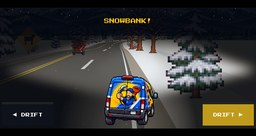
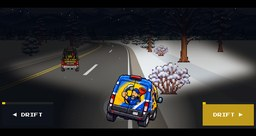
The Clog Kings get their own van
Claude-Session: https://claude.ai/code/session_01QR4rFRbYTeq9tRTzXkRUE8

diff --git a/js/drive3d.js b/js/drive3d.js
@@ -244,15 +244,13 @@ function drive3d(choice, opts) {
   const RIVAL = !!opts.rival; let drift = 0, dmeter = 0, dboost = 0, smoke = [], screech = null;
   let rz = PZ + 45 * SEG, rv = 0, roff = LANE[1], rivalWon = false, rivalImg = null, rivalBump = 0;
   let rivalLane = LANE[1], rivalT = 0, rivalSlip = 0;
-  function makeRival() {   // repaint our van in Clog Kings colors (blue->red, yellow->black) once the art has loaded
-    if (rivalImg || !(VANS.complete && VANS.naturalWidth)) return;
-    const c = document.createElement('canvas'); c.width = VCW; c.height = VCH; const k = c.getContext('2d'); k.imageSmoothingEnabled = true; k.drawImage(VANS, 0, 0, VANS.width / 6, VANS.height, 0, 0, VCW, VCH);
-    const d = k.getImageData(0, 0, VCW, VCH), p = d.data;
-    for (let i = 0; i < p.length; i += 4) { const r0 = p[i], g0 = p[i + 1], b0 = p[i + 2];
-      if (b0 > r0 + 30 && b0 > g0) { p[i] = Math.min(255, b0 + 20); p[i + 1] = g0 * 0.3; p[i + 2] = r0 * 0.3; }            // blue wrap -> red
-      else if (r0 > 150 && g0 > 130 && b0 < 110) { p[i] = 40; p[i + 1] = 40; p[i + 2] = 44; } }                                // yellow -> black
-    k.putImageData(d, 0, 0); rivalImg = c;
+  const CKS = new Image(); CKS.src = (window.DDT && DDT.root || '') + 'assets/ck_back.png'; let ckF = null, rivalBrake = false;   /* the Clog Kings' own van: 6 frames, straight / left / right, then the same braking */
+  function makeRival() {
+    if (ckF || !(CKS.complete && CKS.naturalWidth)) return;
+    ckF = [0, 1, 2, 3, 4, 5].map(i => { const c = document.createElement('canvas'); c.width = VCW; c.height = VCH; const k = c.getContext('2d'); k.imageSmoothingEnabled = true; k.imageSmoothingQuality = 'high'; k.drawImage(CKS, i * CKS.width / 6, 0, CKS.width / 6, CKS.height, 0, 0, VCW, VCH); return c; });
   }
+  const rivalFrame = () => { if (!ckF) return null; const c = segAt(rz).curve; return ckF[(c < -1.5 ? 1 : c > 1.5 ? 2 : 0) + (rivalBrake || rivalBump > 0 ? 3 : 0)]; };
+
 
   // ---------- traffic + critters ----------
   const cars = [];   // { z, off, speed, img, onc }
@@ -559,7 +557,7 @@ function drive3d(choice, opts) {
         if (rivalSlip > 0) want *= 0.6;
         roff += (rivalLane - roff) * Math.min(1, dt * 2.6);   // the swerve itself
         rivalBump = Math.max(0, rivalBump - dt); if (rivalBump > 0) want *= 0.4;
-        rv += (want - rv) * Math.min(1, dt * 0.8); rz += rv * dt;
+        rivalBrake = want < rv - TOP * 0.04; rv += (want - rv) * Math.min(1, dt * 0.8); rz += rv * dt;
         if (inv <= 0 && Math.abs(rz - (pos + PZ)) < SEG * 1.0 && Math.abs(px - roff) < 0.16 + 0.17) {   // trading paint
           if (DRIFT) { inv = 1.0; sfx('horn_angry', { vol: 0.6 }); say('SQUEEZED PAST THE CLOG KINGS!', 1.0); }   /* drifting: no bump, no lost speed, just an angry horn */
           else { inv = 1.0; shake = 0.4; rivalBump = 1.2; speed *= 0.6; px += px < roff ? -0.25 : 0.25; sfx('horn_angry'); say('TRADING PAINT WITH THE CLOG KINGS!', 1.2); } }
@@ -687,7 +685,7 @@ function drive3d(choice, opts) {
         for (const sp of sg.sprites) S(sp.img, sp.scale * 2.6, p.sx, p.sy, sp.off > 0 ? sp.off + (sg.rt || 1) - 1 : sp.off + (sg.lt || -1) + 1, p.sw, sg.clip, 0, 1);   /* unrounded, so trees and signs slide smoothly instead of twitching a pixel at a time */
         if (KITS.length && KIT_IMG.complete && KIT_IMG.naturalWidth) for (const k of KITS) if (!k.got && segAt(k.z) === sg) S(KIT_IMG, 0.09, p.sx, p.sy, k.off, p.sw, sg.clip, 0, 1);   /* a toolbox lying in the lane */
         if (RIVAL && rz > pos && segAt(rz) === sg) { makeRival(); const q = sg.s2, f = Math.max(0, Math.min(1, ((((rz % LEN) + LEN) % LEN) - sg.p1.z) / SEG));   /* glides like the other cars instead of hopping strip to strip */
-          if (rivalImg && q && q.sw > 0) S(rivalImg, 0.62, p.sx + (q.sx - p.sx) * f, p.sy + (q.sy - p.sy) * f, roff, p.sw + (q.sw - p.sw) * f, sg.clip, 0, 1); }
+          rivalImg = rivalFrame(); if (rivalImg && q && q.sw > 0) S(rivalImg, 0.62, p.sx + (q.sx - p.sx) * f, p.sy + (q.sy - p.sy) * f, roff, p.sw + (q.sw - p.sw) * f, sg.clip, 0, 1); }
         for (const c of cars) if (!c.parked && segAt(c.z) === sg) { const q = sg.s2, f = Math.max(0, Math.min(1, ((((c.z % LEN) + LEN) % LEN) - sg.p1.z) / SEG));   /* glide between the segment's two edges instead of hopping strip to strip */
           const b = q && q.sw > 0 ? S(c.img, c.sc, p.sx + (q.sx - p.sx) * f, p.sy + (q.sy - p.sy) * f, c.off, p.sw + (q.sw - p.sw) * f, sg.clip, c.rot, 1) : null;
           if (b && c.blink > 0 && Math.floor(t * 4) % 2) { const bw = Math.max(2, b.w * 0.16), bh = Math.max(2, b.w * 0.1), bx = c.next < c.lane ? b.X - bw * 0.3 : b.X + b.w - bw * 0.7;

diff --git a/index.html b/index.html
@@ -191,12 +191,12 @@
 
 <audio id="music" src="assets/doo_doo_town.mp3" loop preload="auto"></audio>
 <audio id="call" src="assets/call_fluffernutter.mp3" preload="auto"></audio>
-<script src="js/state.js?v=1794510641"></script>
-<script src="js/sfx.js?v=1794510641"></script>
-<script src="js/sqcalls.js?v=1794510641"></script>
-<script src="js/songs.js?v=1794510641"></script>
-<script src="js/drive3d.js?v=1794510641"></script>
-<script src="js/music.js?v=1794510641"></script>
+<script src="js/state.js?v=1794511140"></script>
+<script src="js/sfx.js?v=1794511140"></script>
+<script src="js/sqcalls.js?v=1794511140"></script>
+<script src="js/songs.js?v=1794511140"></script>
+<script src="js/drive3d.js?v=1794511140"></script>
+<script src="js/music.js?v=1794511140"></script>
 <script>
 const W = 480, H = 270, LOOP_W = 6688;           // strip loop width at 270px tall
 const cv = document.getElementById('c'), g = cv.getContext('2d');

diff --git a/story/job.html b/story/job.html
@@ -17,12 +17,12 @@
 </head>
 <body>
 <div id="wrap"><canvas id="c" width="1440" height="810"></canvas></div>
-<script src="../js/state.js?v=1794510641"></script>
-<script src="../js/calls.js?v=1794510641"></script>
-<script src="../js/banter.js?v=1794510641"></script>
-<script src="../js/placeholders.js?v=1794510641"></script>
-<script src="../js/music.js?v=1794510641"></script>
-<script src="../js/sfx.js?v=1794510641"></script>
+<script src="../js/state.js?v=1794511140"></script>
+<script src="../js/calls.js?v=1794511140"></script>
+<script src="../js/banter.js?v=1794511140"></script>
+<script src="../js/placeholders.js?v=1794511140"></script>
+<script src="../js/music.js?v=1794511140"></script>
+<script src="../js/sfx.js?v=1794511140"></script>
 <script>
 DDT.root = '../';
 DDTMusic.play('van');   // you pull in with the van radio on; it goes off when the door shuts

diff --git a/play.html b/play.html
@@ -17,12 +17,12 @@
 </head>
 <body>
 <div id="wrap"><canvas id="c" width="1440" height="810"></canvas></div>
-<script src="js/state.js?v=1794510641"></script>
-<script src="js/calls.js?v=1794510641"></script>
-<script src="js/banter.js?v=1794510641"></script>
-<script src="js/placeholders.js?v=1794510641"></script>
-<script src="js/music.js?v=1794510641"></script>
-<script src="js/sfx.js?v=1794510641"></script>
+<script src="js/state.js?v=1794511140"></script>
+<script src="js/calls.js?v=1794511140"></script>
+<script src="js/banter.js?v=1794511140"></script>
+<script src="js/placeholders.js?v=1794511140"></script>
+<script src="js/music.js?v=1794511140"></script>
+<script src="js/sfx.js?v=1794511140"></script>
 <script>
 DDT.root = '';
 DDTMusic.play('van');   // you pull in with the van radio on; it goes off when the door shuts

diff --git a/arcade/index.html b/arcade/index.html
@@ -113,10 +113,10 @@
   <div class="scr" id="result"><div class="box" id="resbox"></div></div>
 </div></div>
 <audio id="music" src="../assets/doo_doo_town.mp3" loop preload="auto"></audio>
-<script src="../js/state.js?v=1794510641"></script>
-<script src="../js/songs.js?v=1794510641"></script>
-<script src="../js/sfx.js?v=1794510641"></script>
-<script src="games.js?v=1794510641"></script>
+<script src="../js/state.js?v=1794511140"></script>
+<script src="../js/songs.js?v=1794511140"></script>
+<script src="../js/sfx.js?v=1794511140"></script>
+<script src="games.js?v=1794511140"></script>
 <script>
 const cv = document.getElementById('c'); g = cv.getContext('2d'); const SCALE = 3; g.setTransform(SCALE, 0, 0, SCALE, 0, 0); g.imageSmoothingEnabled = false;
 const $ = s => document.querySelector(s);

diff --git a/story/stop.html b/story/stop.html
@@ -17,11 +17,11 @@
 </head>
 <body>
 <div id="wrap"><canvas id="c" width="1440" height="810"></canvas></div>
-<script src="../js/state.js?v=1794510641"></script>
-<script src="../js/calls.js?v=1794510641"></script>
-<script src="../js/placeholders.js?v=1794510641"></script>
-<script src="../js/music.js?v=1794510641"></script>
-<script src="../js/sfx.js?v=1794510641"></script>
+<script src="../js/state.js?v=1794511140"></script>
+<script src="../js/calls.js?v=1794511140"></script>
+<script src="../js/placeholders.js?v=1794511140"></script>
+<script src="../js/music.js?v=1794511140"></script>
+<script src="../js/sfx.js?v=1794511140"></script>
 <script>
 DDT.root = '../';
 DDTMusic.play('van');   // you pull in with the van radio on; it goes off when the door shuts

diff --git a/story/fluffernutter.html b/story/fluffernutter.html
@@ -17,11 +17,11 @@
 </head>
 <body>
 <div id="wrap"><canvas id="c" width="1440" height="810"></canvas></div>
-<script src="../js/state.js?v=1794510641"></script>
-<script src="../js/music.js?v=1794510641"></script>
-<script src="../js/sfx.js?v=1794510641"></script>
-<script src="../js/calls.js?v=1794510641"></script>
-<script src="../js/placeholders.js?v=1794510641"></script>
+<script src="../js/state.js?v=1794511140"></script>
+<script src="../js/music.js?v=1794511140"></script>
+<script src="../js/sfx.js?v=1794511140"></script>
+<script src="../js/calls.js?v=1794511140"></script>
+<script src="../js/placeholders.js?v=1794511140"></script>
 <script>
 DDT.root = '../';
 DDTMusic.play('van');

diff --git a/story/coffee.html b/story/coffee.html
@@ -17,9 +17,9 @@
 </head>
 <body>
 <div id="wrap"><canvas id="c" width="1440" height="810"></canvas></div>
-<script src="../js/state.js?v=1794510641"></script>
-<script src="../js/music.js?v=1794510641"></script>
-<script src="../js/sfx.js?v=1794510641"></script>
+<script src="../js/state.js?v=1794511140"></script>
+<script src="../js/music.js?v=1794511140"></script>
+<script src="../js/sfx.js?v=1794511140"></script>
 <script>
 DDT.root = '../';
 DDTMusic.play('van');   // you pull in with the van radio on; it goes off when the door shuts

diff --git a/story/alien.html b/story/alien.html
@@ -17,9 +17,9 @@
 </head>
 <body>
 <div id="wrap"><canvas id="c" width="1440" height="810"></canvas></div>
-<script src="../js/state.js?v=1794510641"></script>
-<script src="../js/music.js?v=1794510641"></script>
-<script src="../js/sfx.js?v=1794510641"></script>
+<script src="../js/state.js?v=1794511140"></script>
+<script src="../js/music.js?v=1794511140"></script>
+<script src="../js/sfx.js?v=1794511140"></script>
 <script>
 DDT.root = '../';
 DDTMusic.play('spooky');
